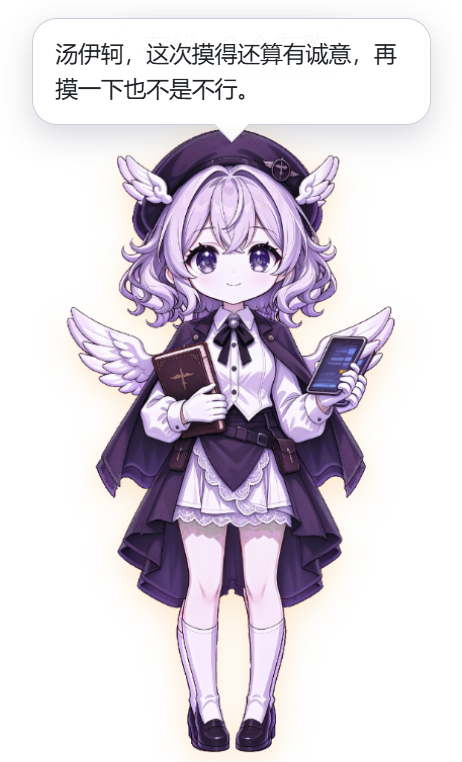
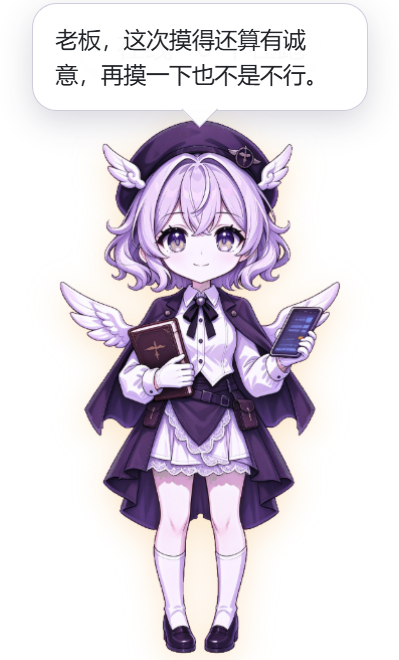
fix: 去掉重复全身的表情层消除重影，窗口缩到 224×372，待机动作改柔和

diff --git a/renderer/style.css b/renderer/style.css
@@ -74,7 +74,6 @@ html, body {
 }
 #panel-agents span { padding: 2px 5px; border-radius: 4px; background: #f0eff8; }
 #panel-agents span.working { color: #6556b7; background: #eeecfb; }
-}
 #state-dot {
   width: 7px;
   height: 7px;
@@ -95,23 +94,32 @@ html, body {
   position: absolute;
   bottom: 0;
   left: 50%;
-  width: 260px;
-  height: 430px;
+  width: 224px;
+  height: 372px;
   transform: translateX(-50%);
-  transform-origin: 50% 95%;
-  animation: breathe 3.4s ease-in-out infinite;
+  transform-origin: 50% 96%;
+  animation: breathe 5.6s cubic-bezier(.37, 0, .63, 1) infinite;
   pointer-events: none;
   isolation: isolate;
+}
+
+/* 所有图层一起做视线偏移，避免脸和身体各动各的 */
+#pet-inner {
+  position: absolute;
+  inset: 0;
+  transform: translate(var(--look-x, 0px), var(--look-y, 0px));
+  transition: transform .45s cubic-bezier(.22, .61, .36, 1);
+  will-change: transform;
 }
 
 .pet-layer {
   position: absolute;
   left: 50%;
-  bottom: -20px;
+  bottom: -17px;
   display: block;
-  width: 435px;
-  height: 435px;
-  margin-left: -217.5px;
+  width: 374px;
+  height: 374px;
+  margin-left: -187px;
   pointer-events: none;
   -webkit-user-drag: none;
 }
@@ -124,26 +132,16 @@ html, body {
 #pet.drop-target .pet-halo { opacity: .9; filter: brightness(1.2); }
 .pet-cast { animation: castPulse 4.2s ease-in-out infinite; }
 .pet-body {
-  filter: drop-shadow(0 4px 8px rgba(10, 16, 32, .22));
-  transform-origin: 50% 95%;
-  transition: filter .7s ease, transform .18s ease;
-  transform: translate(var(--look-x, 0px), var(--look-y, 0px));
+  filter: drop-shadow(0 3px 6px rgba(10, 16, 32, .22));
+  transform-origin: 50% 96%;
+  transition: filter .7s ease;
 }
-.pet-face { object-fit: contain; }
-.pet-gloss {
-  background: linear-gradient(102deg, transparent 34%, rgba(255,255,255,.72) 45%, rgba(255,255,255,.18) 52%, transparent 63%);
-  background-size: 320% 100%;
-  background-position: 140% 0;
-  mix-blend-mode: screen;
-  animation: glossSweep 7.5s cubic-bezier(.4,0,.2,1) infinite;
-}
-.pet-contact { animation: contactPulse 4.2s ease-in-out infinite; }
 #pet-hit-area {
   position: absolute;
   left: 50%;
   bottom: 2px;
-  width: 212px;
-  height: 348px;
+  width: 182px;
+  height: 299px;
   transform: translateX(-50%);
   opacity: 0;
   pointer-events: auto;
@@ -157,17 +155,18 @@ html, body {
 
 @keyframes breathe {
   0%   { transform: translateX(-50%) translateY(0) scale(1); }
-  50%  { transform: translateX(-50%) translateY(-5px) scale(1.012); }
+  42%  { transform: translateX(-50%) translateY(-2.6px) scale(1.006); }
+  58%  { transform: translateX(-50%) translateY(-2.2px) scale(1.005); }
   100% { transform: translateX(-50%) translateY(0) scale(1); }
 }
 
 #pet.sway {
-  animation: sway 1.1s ease-in-out;
+  animation: sway 1.9s cubic-bezier(.36, .07, .19, .97);
 }
 @keyframes sway {
   0%   { transform: translateX(-50%) rotate(0deg); }
-  25%  { transform: translateX(-50%) rotate(-3deg) translateY(-2px); }
-  60%  { transform: translateX(-50%) rotate(2.5deg) translateY(-1px); }
+  30%  { transform: translateX(-50%) rotate(calc(-1.4deg * var(--sway-dir, 1))) translateY(-1px); }
+  68%  { transform: translateX(-50%) rotate(calc(0.9deg * var(--sway-dir, 1))) translateY(-0.5px); }
   100% { transform: translateX(-50%) rotate(0deg); }
 }
 
@@ -191,7 +190,7 @@ html, body {
 #pet.drowsy { animation: sleep 4.5s ease-in-out infinite; }
 @keyframes work {
   0%, 100% { transform: translateX(-50%) translateY(0) scale(1); }
-  50% { transform: translateX(-50%) translateY(-4px) scale(1.018); }
+  50% { transform: translateX(-50%) translateY(-3px) scale(1.012); }
 }
 @keyframes success {
   0% { transform: translateX(-50%) translateY(0) scale(1); }
@@ -209,7 +208,7 @@ html, body {
 }
 @keyframes thinking {
   0%, 100% { transform: translateX(-50%) translateY(0) rotate(0deg); }
-  50% { transform: translateX(-50%) translateY(-6px) rotate(-1.2deg); }
+  50% { transform: translateX(-50%) translateY(-4px) rotate(-0.9deg); }
 }
 @keyframes hop {
   0%   { transform: translateX(-50%) translateY(0); }
@@ -223,7 +222,7 @@ html, body {
   position: absolute;
   left: 18px;
   right: 18px;
-  bottom: 364px;
+  bottom: 314px;
   padding: 10px 13px;
   background: rgba(255, 255, 255, 0.97);
   color: #1f2328;
@@ -258,7 +257,7 @@ html, body {
 #menu {
   position: absolute;
   left: 26px;
-  bottom: 190px;
+  bottom: 164px;
   min-width: 150px;
   background: rgba(252, 251, 255, 0.98);
   border: 1px solid rgba(120, 108, 160, 0.3);

diff --git a/renderer/pet.js b/renderer/pet.js
@@ -1,6 +1,5 @@
 const petEl = document.getElementById('pet');
 const petBody = document.getElementById('pet-body');
-const petFace = document.getElementById('pet-face');
 const petHitArea = document.getElementById('pet-hit-area');
 const bubble = document.getElementById('bubble');
 const menu = document.getElementById('menu');
@@ -16,6 +15,27 @@ const panelBlocked = document.getElementById('panel-blocked');
 const panelQueue = document.getElementById('panel-queue');
 const panelTask = document.getElementById('panel-task');
 const panelAgents = document.getElementById('panel-agents');
+
+let currentSrc = petBody.getAttribute('src');
+const BLINK_SRC = '../assets/states/v2/aligned/state/state-idle-blink.png';
+
+/* ---------------- 眨眼 ---------------- */
+function blinkOnce() {
+  if (dragging || bubbleVisible()) return;
+  if ((petEl.dataset.state || 'idle') !== 'idle') return;
+  const restore = currentSrc;
+  petBody.src = BLINK_SRC;
+  setTimeout(() => {
+    if (currentSrc === restore) petBody.src = restore;
+  }, 110);
+}
+
+function blinkLoop() {
+  setTimeout(() => {
+    blinkOnce();
+    blinkLoop();
+  }, 3800 + Math.random() * 5200);
+}
 
 /* ---------------- 台词 ---------------- */
 const LINES = [
@@ -83,8 +103,8 @@ window.addEventListener('mousemove', (e) => {
   const bounds = petEl.getBoundingClientRect();
   const lookX = Math.max(-1, Math.min(1, (e.clientX - (bounds.left + bounds.width / 2)) / (bounds.width / 2)));
   const lookY = Math.max(-1, Math.min(1, (e.clientY - (bounds.top + bounds.height / 2)) / (bounds.height / 2)));
-  petEl.style.setProperty('--look-x', `${(lookX * 1.5).toFixed(1)}px`);
-  petEl.style.setProperty('--look-y', `${(lookY * 1.2).toFixed(1)}px`);
+  petEl.style.setProperty('--look-x', `${(lookX * 2.2).toFixed(1)}px`);
+  petEl.style.setProperty('--look-y', `${(lookY * 1.8).toFixed(1)}px`);
   if (dragging) return;
   updateIgnore(e.clientX, e.clientY);
 });
@@ -191,8 +211,11 @@ function paintState(state) {
   petEl.dataset.face = s.status === 'error' && (s.failureSeverity === 'high' || s.mood <= 25) ? 'cry' : face;
   const bodyState = ['idle', 'working', 'thinking', 'success', 'sleep', 'error'].includes(s.status)
     ? s.status : 'idle';
-  petBody.src = window.pet.stateSources?.[bodyState] || window.pet.stateSources?.idle || petBody.src;
-  petFace.src = window.pet.faceSources?.[petEl.dataset.face] || window.pet.faceSources?.idle || petFace.src;
+  const nextSrc = window.pet.stateSources?.[bodyState] || window.pet.stateSources?.idle;
+  if (nextSrc && nextSrc !== currentSrc) {
+    currentSrc = nextSrc;
+    petBody.src = nextSrc;
+  }
   petEl.classList.toggle('thinking', s.status === 'thinking');
   petEl.classList.toggle('working', s.status === 'working');
   petEl.classList.toggle('success', s.status === 'success');
@@ -282,11 +305,13 @@ window.addEventListener('keydown', (e) => {
 function idleLoop() {
   const wait = 7000 + Math.random() * 8000;
   setTimeout(() => {
-    if (!dragging) {
+    if (!dragging && !bubbleVisible()) {
+      petEl.style.setProperty('--sway-dir', Math.random() < 0.5 ? '-1' : '1');
       petEl.classList.add('sway');
-      setTimeout(() => petEl.classList.remove('sway'), 1150);
+      setTimeout(() => petEl.classList.remove('sway'), 1900);
     }
     idleLoop();
+blinkLoop();
   }, wait);
 }
 idleLoop();

diff --git a/renderer/index.html b/renderer/index.html
@@ -23,9 +23,9 @@
       <div id="panel-agents"></div>
     </div>
     <div id="pet" aria-label="赫尔墨兹桌宠">
-      <img id="pet-body" class="pet-layer pet-body" src="../assets/states/v2/aligned/state/state-idle.png" alt="赫尔墨兹" draggable="false" />
-      <img id="pet-face" class="pet-layer pet-face" src="../assets/states/v2/aligned/face/face-calm.png" alt="" draggable="false" />
-      <div class="pet-layer pet-gloss" aria-hidden="true"></div>
+      <div id="pet-inner">
+        <img id="pet-body" class="pet-layer pet-body" src="../assets/states/v2/aligned/state/state-idle.png" alt="赫尔墨兹" draggable="false" />
+      </div>
       <div id="pet-hit-area" aria-hidden="true"></div>
     </div>
     <div id="menu" class="hidden">

diff --git a/main.js b/main.js
@@ -8,8 +8,8 @@ const petMemory = require('./memory');
 const petEmotion = require('./pet-emotion');
 const petRuntime = require('./pet-runtime');
 
-const WIN_W = 260;
-const WIN_H = 430;
+const WIN_W = 224;
+const WIN_H = 372;
 const HERMES_DIR = path.join(process.env.LOCALAPPDATA || '', 'hermes');
 const PERSONA_FILE = path.join(__dirname, 'persona.json');
 
